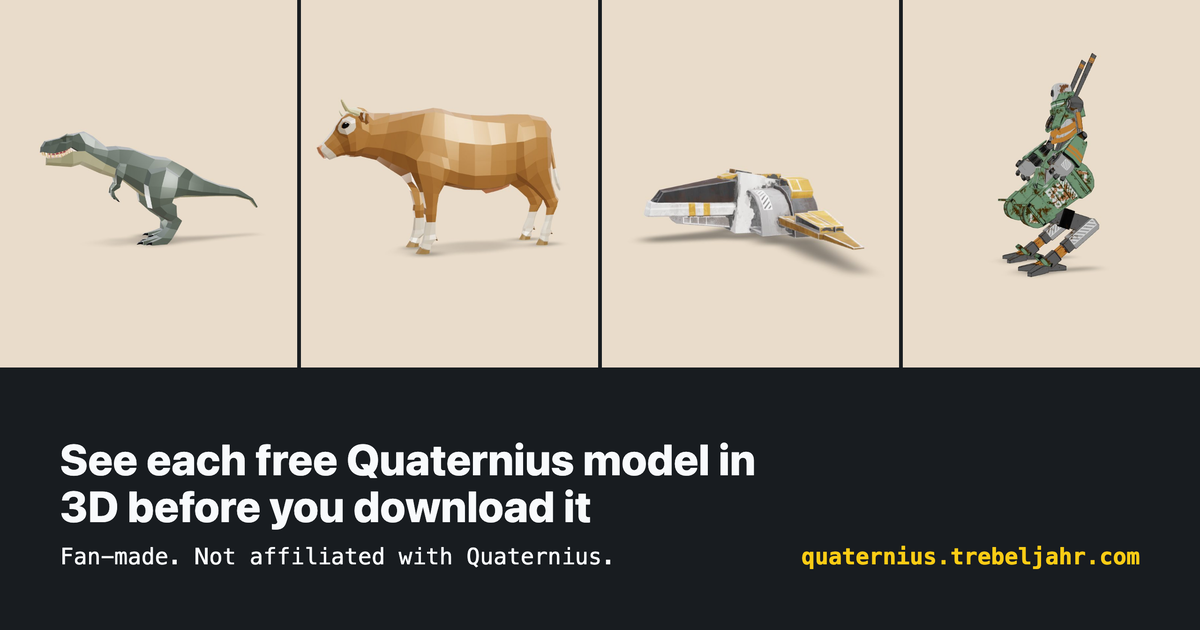
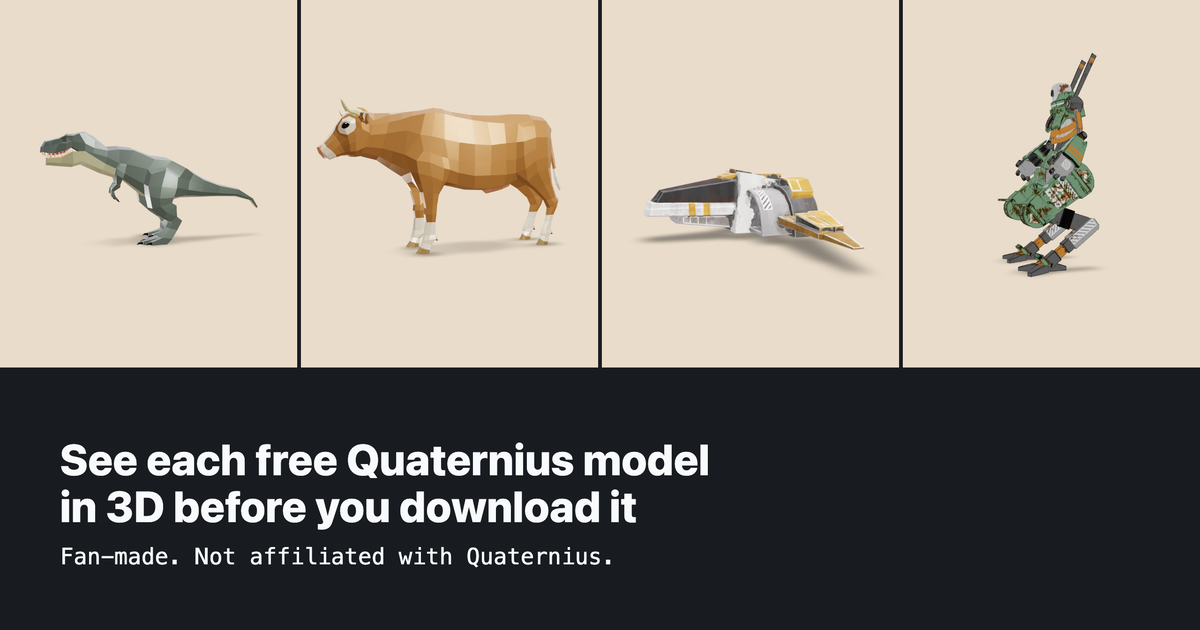
Drop the URL from the og:image wordmark card
Rico wants the cards without a link line; the headline now wraps evenly
across the freed width.

Changed region(s): [[0.0308, 0.754, 0.555, 0.8444], [0.6475, 0.8746, 0.9558, 0.9048], [0.5858, 0.6937, 0.6475, 0.754]]

diff --git a/docs/marketing/README.md b/docs/marketing/README.md
@@ -48,5 +48,5 @@ Cards A and C crop the captures in CSS to show the models larger. None of them i
 
 | File | Composition |
 | --- | --- |
-| `social-preview/og-wordmark.png` | Card C with its text: the four models on top, title, fan-made note and URL below |
+| `social-preview/og-wordmark.png` | Card C with its text: the four models on top, title and fan-made note below (no URL) |
 | `social-preview/og-clean.png` | No text: the same four model crops as a 2×2 grid on the beige tiles, each model centred |
